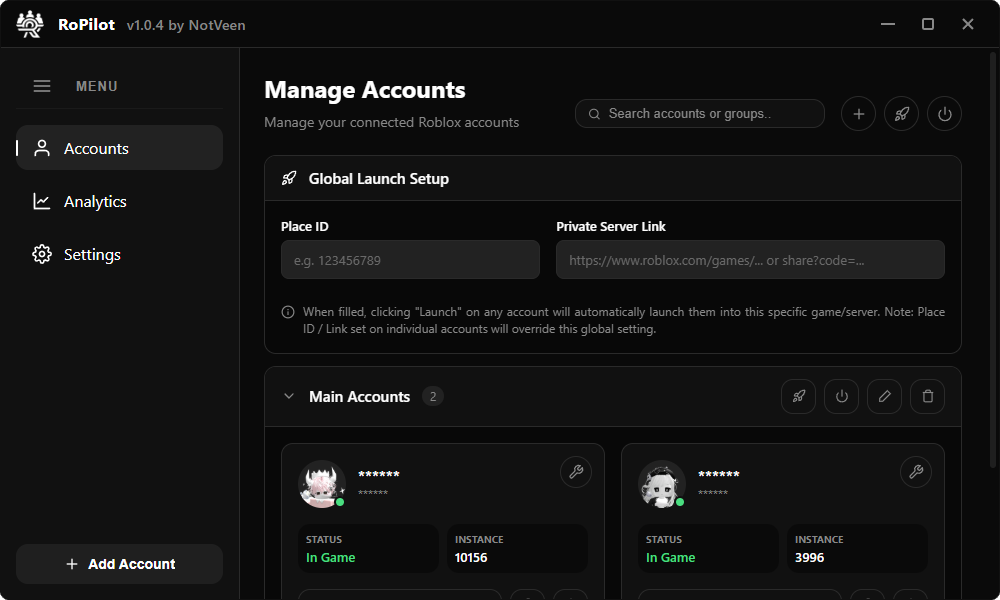
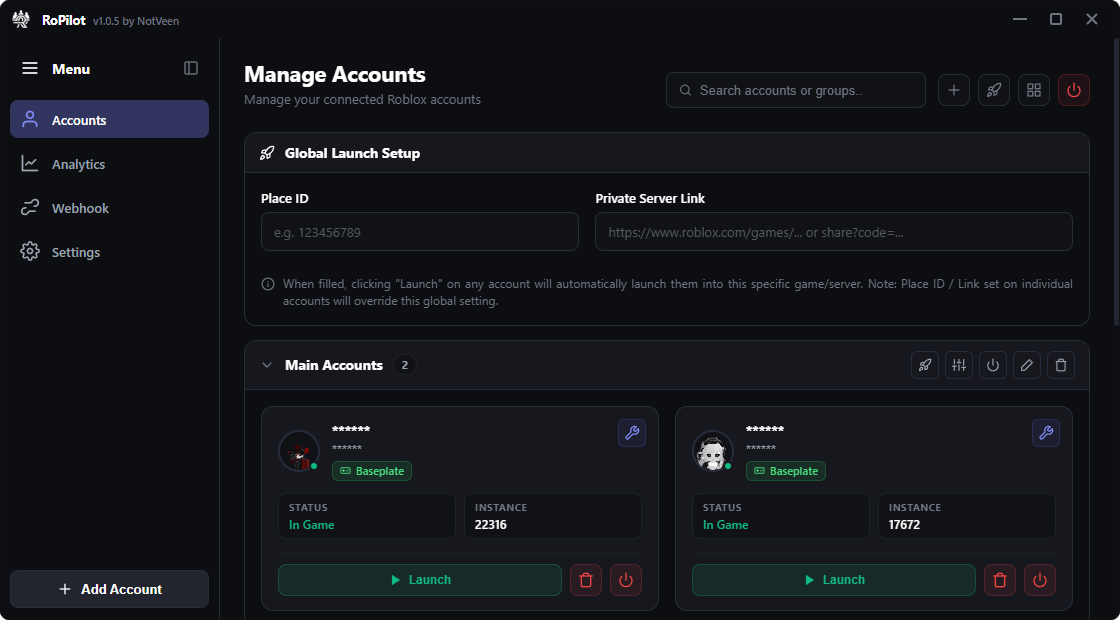
docs: update preview screenshots and virustotal scan link for v1.0.5

diff --git a/README.md b/README.md
@@ -45,7 +45,7 @@ If you're a developer and want to build it from scratch:
 3. Run `build.bat` and let it do its thing.
 
 ## VirusTotal & False Positives
-You can check out the latest VirusTotal scan for the executable here: **[VirusTotal Scan Results](https://www.virustotal.com/gui/file/832cd335e6caa462b8e88ba942974cbb94ba35d716b4127380b74f44b846526f)**
+You can check out the latest VirusTotal scan for the executable here: **[VirusTotal Scan Results](https://www.virustotal.com/gui/file/3eec35dd66983ea9d4d92fa69ed05b3824bbc0c5df83f4578343edb89ba8c83b)**
 
 Some antiviruses (especially those relying on AI or machine learning) might flag RoPilot as suspicious. Please don't panic, these are just **False Positives**! This happens because:
 1. RoPilot is a brand new, unsigned executable (Code Signing Certificates are expensive!).
